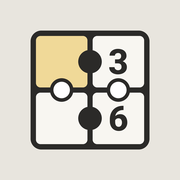
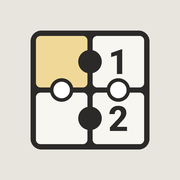
アイコンの数字を1と2に
Claude-Session: https://claude.ai/code/session_013kTsagysor6dWieBH7zMdY

Changed region(s): [[0.5833, 0.5833, 0.7222, 0.75], [0.5833, 0.25, 0.7222, 0.4167]]

diff --git a/sw.js b/sw.js
@@ -1,5 +1,5 @@
 // KROPKI: offline cache. Network first so updates arrive; cache as fallback.
-const C='kropki-v4',FILES=['./','./index.html','./manifest.json','./icon-192.png','./icon-512.png'];
+const C='kropki-v5',FILES=['./','./index.html','./manifest.json','./icon-192.png','./icon-512.png'];
 self.addEventListener('install',e=>{e.waitUntil(caches.open(C).then(c=>c.addAll(FILES)));self.skipWaiting();});
 self.addEventListener('activate',e=>{e.waitUntil(caches.keys().then(ks=>Promise.all(ks.filter(k=>k!==C).map(k=>caches.delete(k)))));self.clients.claim();});
 self.addEventListener('fetch',e=>{if(e.request.method!=='GET')return;
